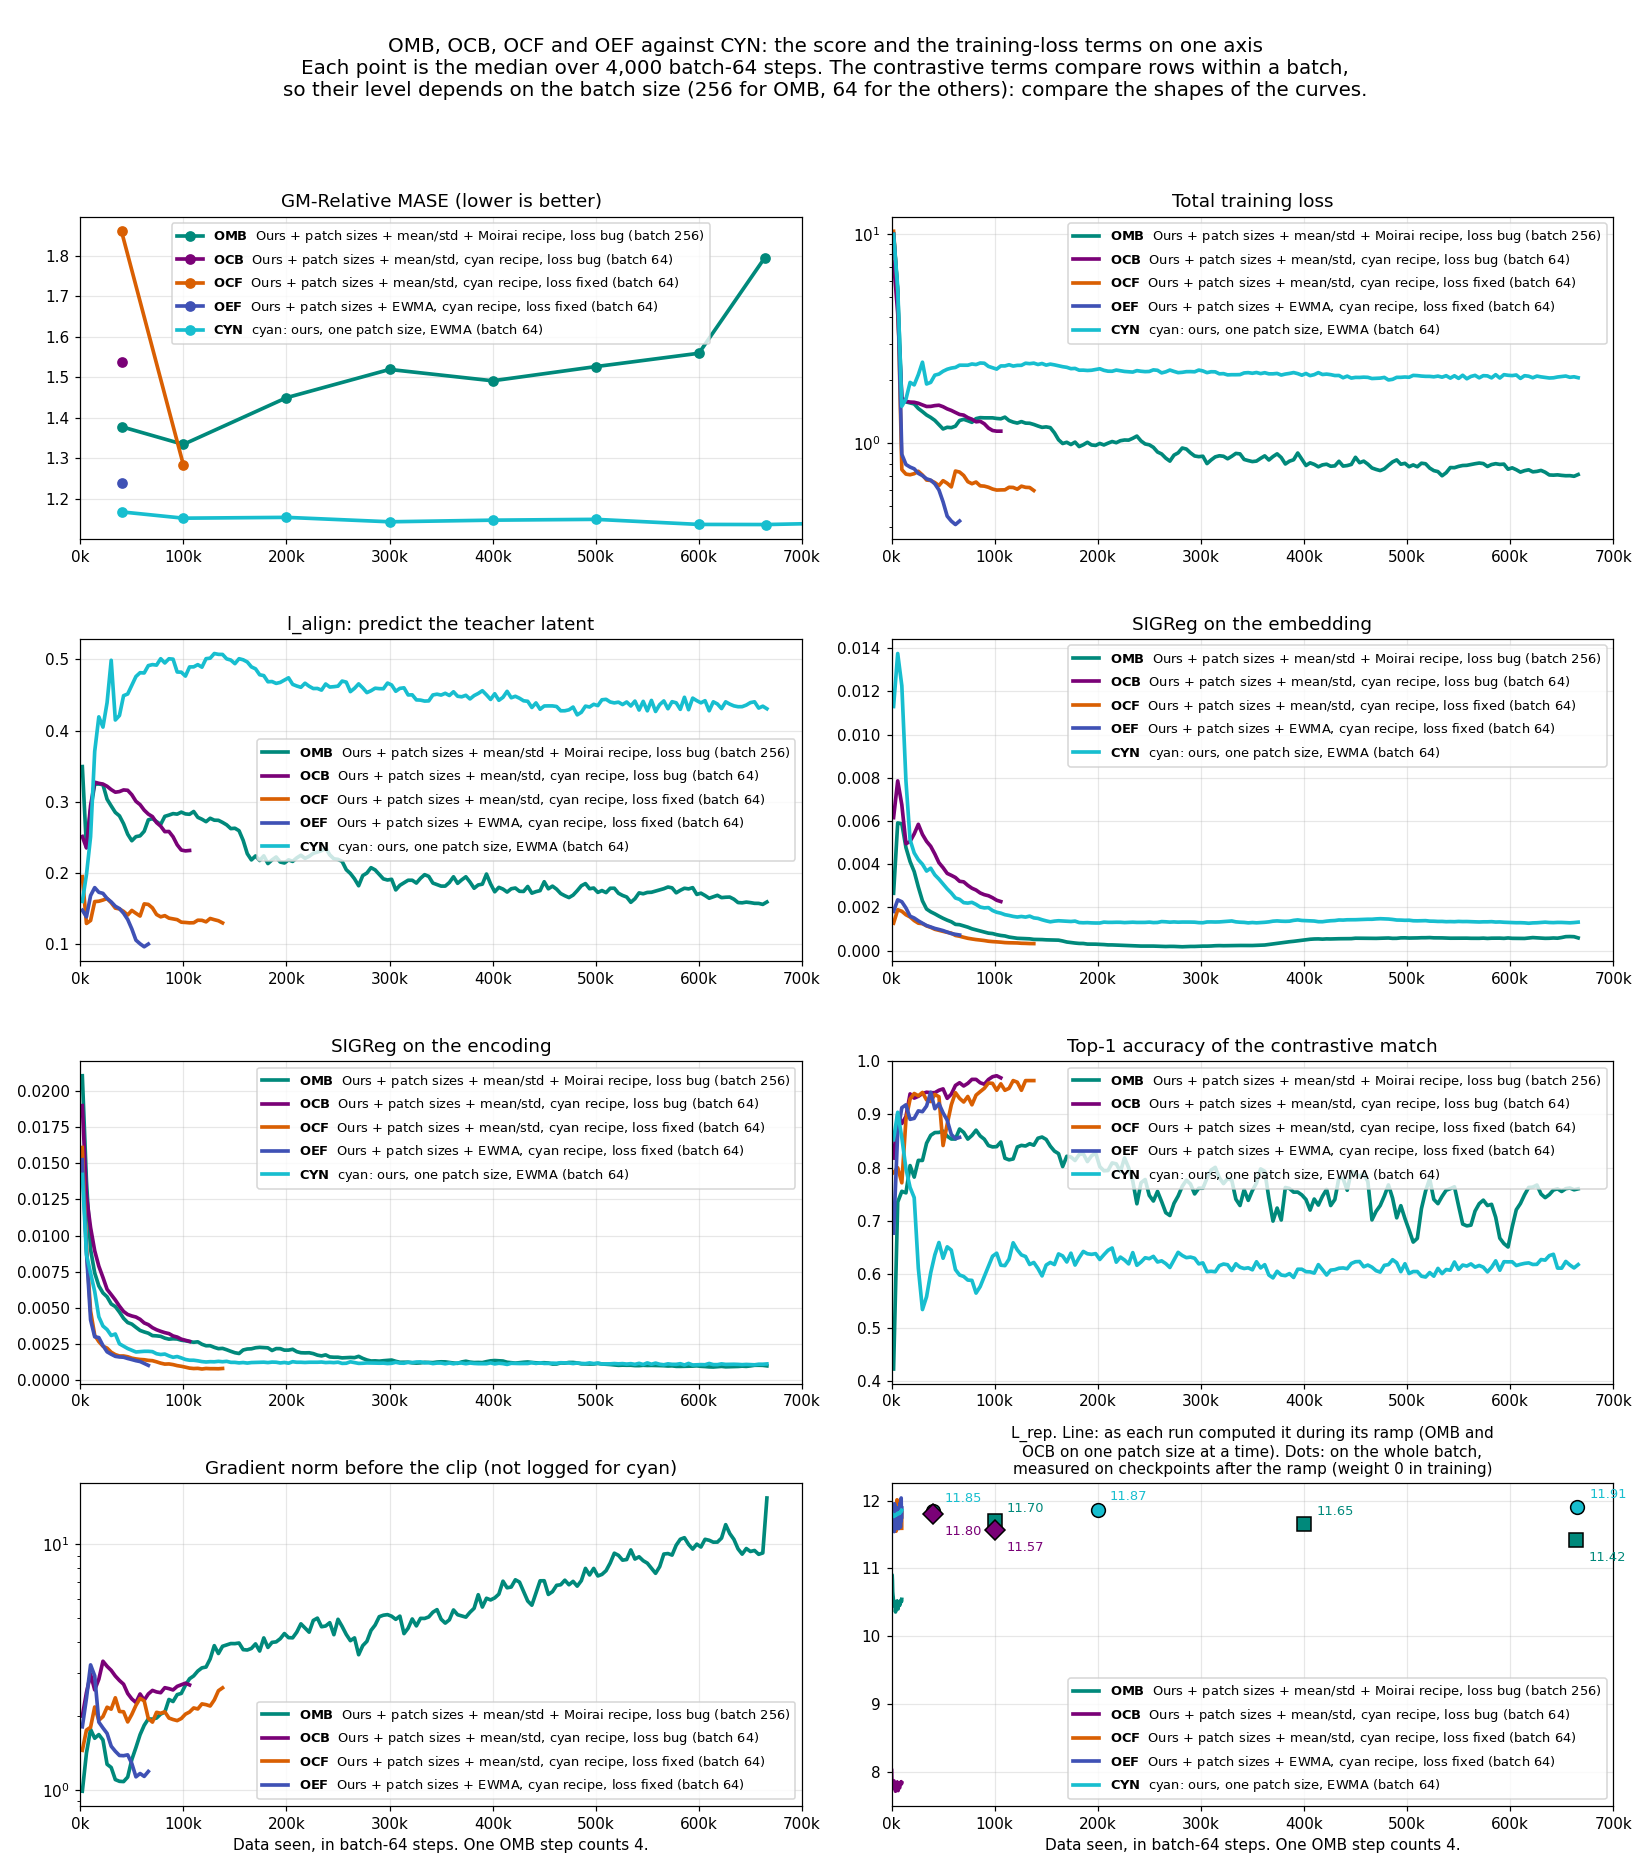
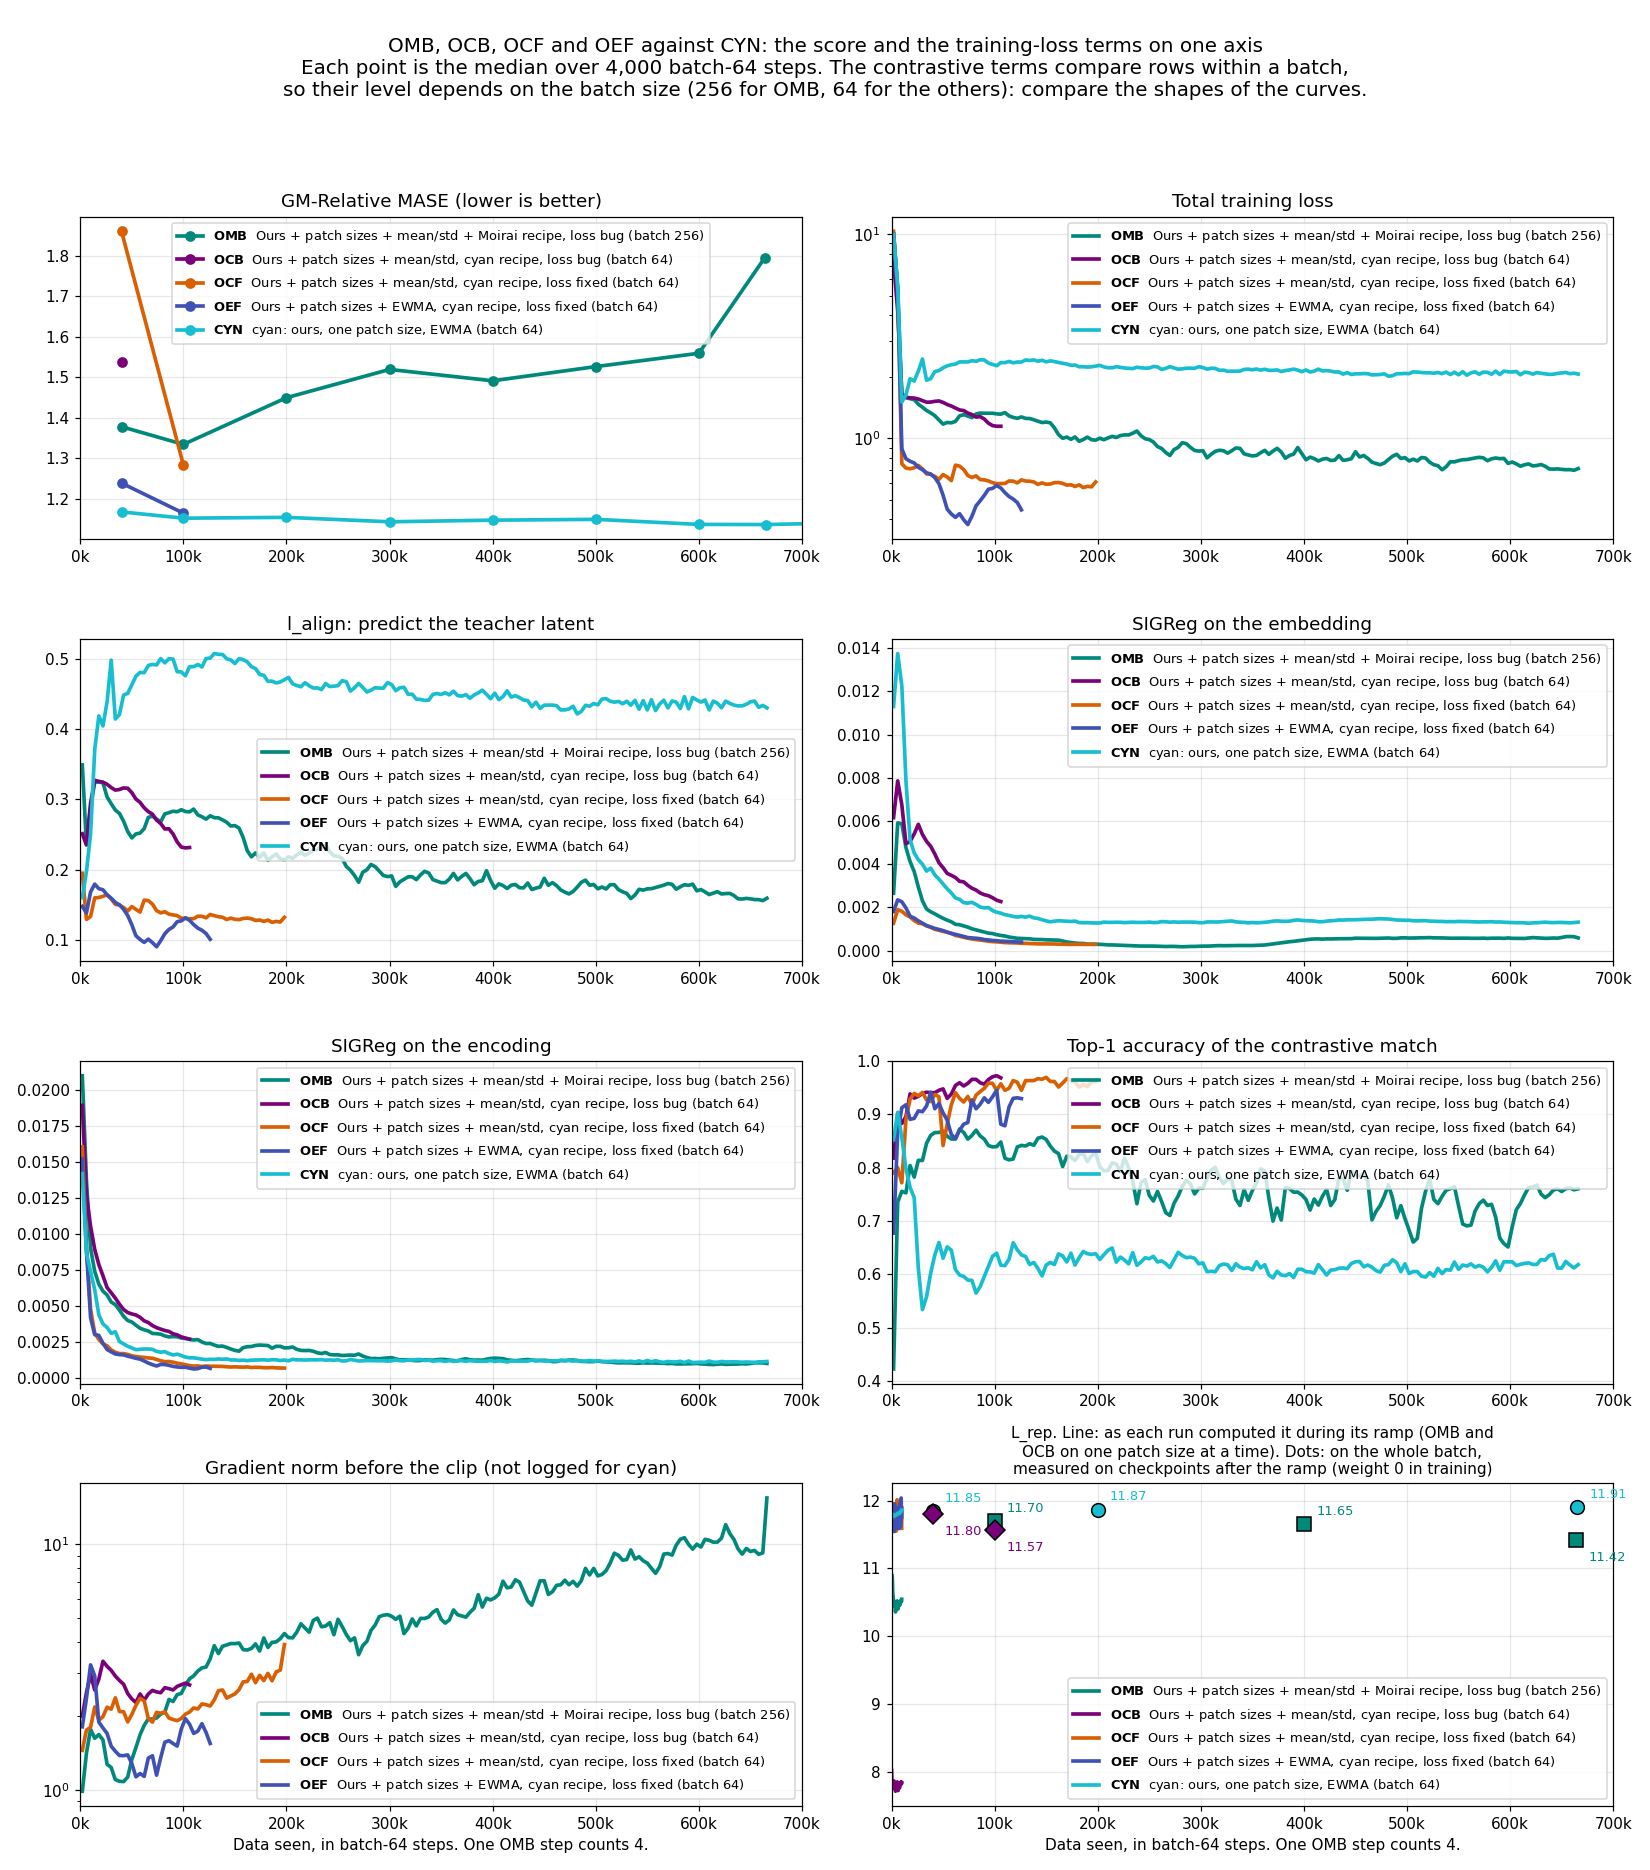
exp(#412): OEF (#412oe2) scores 1.1650 at 100k

diff --git a/reports/2026-09-06_moirai_small_size/scripts/plot_gm_rates.py b/reports/2026-09-06_moirai_small_size/scripts/plot_gm_rates.py
@@ -50,7 +50,7 @@ XSCALE = {"cf415_moirai": 4, "cf415_moirai_native": 4, "cf419_moirai_native": 4,
           "cf421n_moirai_native": 4, "cf421ew_moirai_native": 4, "cf412om": 4}
 # Where the last score of a line prints, so two lines that end together part.
 END_LABEL_OFFSET = {P + "_lr100x": (9, 4), P + "_cos200k": (9, -12), "cf412om": (-62, 6),
-                    "cf412oc2": (-58, -16)}
+                    "cf412oc2": (-58, -16), "cf412oe2": (9, 5)}
 BEST, BAND, PROJECT_BEST = 1.1369, 0.008, 1.0651
 YMIN, YMAX = 0.90, 1.60
 
